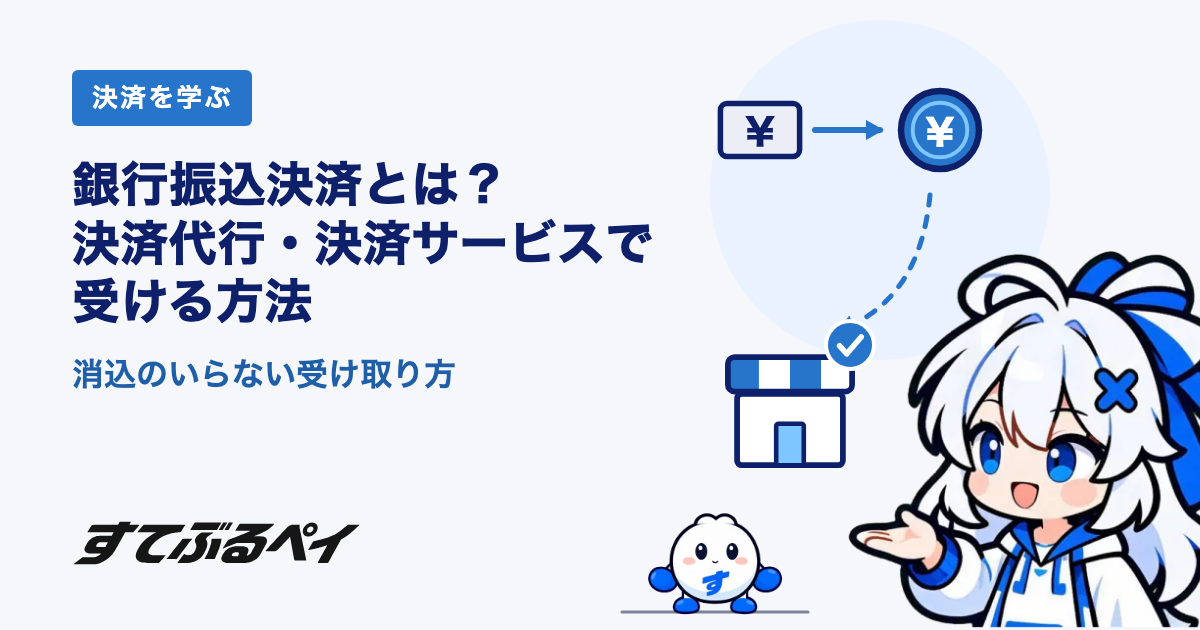
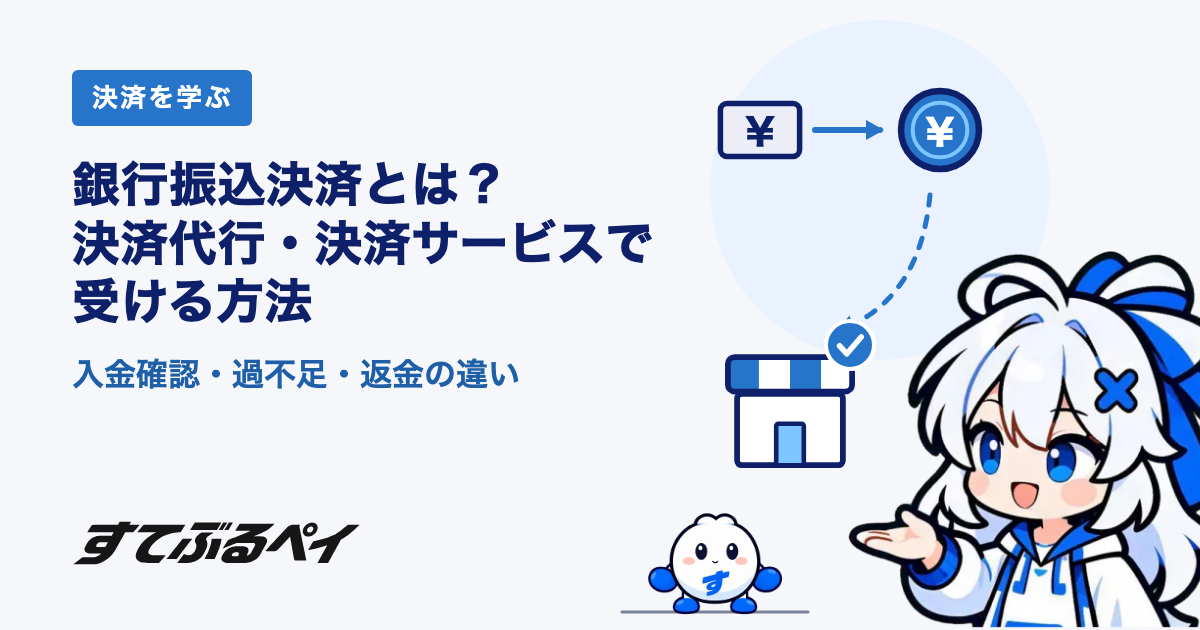
fix(learn): Codex の指摘を出典で確かめて直す（銀行振込決済の題から限定なしの「消込のいらない」を外す、BASE の返金手数料・UnivaPay の期限・Stripe の充て方・過不足の対策の出典の範囲）
- 銀行振込決済とは：題・h1・OGP・一覧・llms.txt・サムネイルから「消込のいらない受け取り方」を外す（サムネイルの副題は「入金確認・過不足・返金の違い」）
- BASE の返金手数料は、過入金・重複入金を BASE から返金する場合に限る（BASE ヘルプ）
- UnivaPay の失敗は「申込金額に達しないまま振込期限を過ぎた」とき（Pay-Doc）
- Stripe の日本円の充て方：請求書は支払期日の古い順、PaymentIntent は確定日時の古い順（日本語版ドキュメント）
- 自動化の記事の過不足の行：繰越待ち・前受・入金残は多すぎる入金の機能。振込手数料を引いた入金は手数料の誤差の設定で候補に出す（マネーフォワード）
- 振込人名で照合できない場合を限定する言い方に
- 比較表に残っていた作業メモの文を消す

Changed region(s): [[0.0617, 0.573, 0.4317, 0.6333]]

diff --git a/learn/bank-transfer-payments/index.html b/learn/bank-transfer-payments/index.html
@@ -6,7 +6,7 @@
     <meta name="robots" content="index,follow,max-image-preview:large" />
     <meta name="google-analytics-id" content="G-QEPQ7VY0Z2" />
     <link rel="icon" href="/favicon.ico?v=1" sizes="any" />
-    <title>銀行振込決済とは？決済代行・決済サービスで受ける方法と、消込のいらない受け取り方 | すてぶるペイ</title>
+    <title>銀行振込決済とは？決済代行・決済サービスで受ける方法 | すてぶるペイ</title>
     <meta
       name="description"
       content="銀行振込決済とは、購入者が銀行振込で代金を払う決済方法です。ネットショップが自分の口座で受ける方法と、決済代行・決済サービスで受ける方法を、入金確認・過不足・返金で比べ、入金明細と注文を突き合わせる作業がなくなる条件を解説します。組み込み・記帳・返金の操作は残ります。"
@@ -14,7 +14,7 @@
     <meta property="og:type" content="article" />
     <meta property="og:locale" content="ja_JP" />
     <meta property="og:site_name" content="すてぶるペイ / STBLpay" />
-    <meta property="og:title" content="銀行振込決済とは？決済代行・決済サービスで受ける方法と、消込のいらない受け取り方" />
+    <meta property="og:title" content="銀行振込決済とは？決済代行・決済サービスで受ける方法" />
     <meta
       property="og:description"
       content="自分の口座・決済代行や決済サービスの銀行振込・ステーブルコイン決済を、入金確認・過不足・返金で比べ、入金明細と注文を突き合わせる作業がなくなる条件を解説します。組み込み・記帳・返金の操作は残ります。"
@@ -24,17 +24,17 @@
     <meta property="og:image:type" content="image/png" />
     <meta property="og:image:width" content="1200" />
     <meta property="og:image:height" content="630" />
-    <meta property="og:image:alt" content="決済を学ぶ：銀行振込決済とは？決済代行・決済サービスで受ける方法 消込のいらない受け取り方" />
+    <meta property="og:image:alt" content="決済を学ぶ：銀行振込決済とは？決済代行・決済サービスで受ける方法 入金確認・過不足・返金の違い" />
     <meta property="article:published_time" content="2026-11-10" />
     <meta property="article:modified_time" content="2026-11-11" />
     <meta name="twitter:card" content="summary_large_image" />
-    <meta name="twitter:title" content="銀行振込決済とは？決済代行・決済サービスで受ける方法と、消込のいらない受け取り方" />
+    <meta name="twitter:title" content="銀行振込決済とは？決済代行・決済サービスで受ける方法" />
     <meta
       name="twitter:description"
       content="自分の口座・決済代行や決済サービスの銀行振込・ステーブルコイン決済を、入金確認・過不足・返金で比べ、入金明細と注文を突き合わせる作業がなくなる条件を解説します。組み込み・記帳・返金の操作は残ります。"
     />
     <meta name="twitter:image" content="https://stbl-pay.com/assets/learn/bank-transfer-payments/og.png" />
-    <meta name="twitter:image:alt" content="決済を学ぶ：銀行振込決済とは？決済代行・決済サービスで受ける方法 消込のいらない受け取り方" />
+    <meta name="twitter:image:alt" content="決済を学ぶ：銀行振込決済とは？決済代行・決済サービスで受ける方法 入金確認・過不足・返金の違い" />
     <link rel="alternate" hreflang="ja" href="https://stbl-pay.com/learn/bank-transfer-payments/" />
     <link rel="alternate" hreflang="x-default" href="https://stbl-pay.com/learn/bank-transfer-payments/" />
     <link rel="canonical" href="https://stbl-pay.com/learn/bank-transfer-payments/" />
@@ -56,7 +56,7 @@
     {
       "@type": "Article",
       "@id": "https://stbl-pay.com/learn/bank-transfer-payments/#article",
-      "headline": "銀行振込決済とは？決済代行・決済サービスで受ける方法と、消込のいらない受け取り方",
+      "headline": "銀行振込決済とは？決済代行・決済サービスで受ける方法",
       "description": "銀行振込決済とは、購入者が銀行振込で代金を払う決済方法です。ネットショップが自分の口座で受ける方法と、決済代行・決済サービスで受ける方法を、入金確認・過不足・返金で比べ、入金明細と注文を突き合わせる作業がなくなる条件を解説します。組み込み・記帳・返金の操作は残ります。",
       "inLanguage": "ja",
       "datePublished": "2026-11-10",
@@ -152,7 +152,7 @@
           "name": "銀行振込の支払い期限を過ぎた注文は、どうなりますか？",
           "acceptedAnswer": {
             "@type": "Answer",
-            "text": "サービスによって違います。BASE では、注文日から 5 営業日以内に入金がないと、注文は自動でキャンセルになります。注文の 2 営業日後と 4 営業日後には、支払いの催促メールが購入者へ自動で送られます。UnivaPay では、振込期限を過ぎた申込は失敗になります。"
+            "text": "サービスによって違います。BASE では、注文日から 5 営業日以内に入金がないと、注文は自動でキャンセルになります。注文の 2 営業日後と 4 営業日後には、支払いの催促メールが購入者へ自動で送られます。UnivaPay では、申込金額に達しないまま振込期限を過ぎると、申込は失敗になります。"
           }
         },
         {
@@ -206,8 +206,8 @@
             </ol>
           </nav>
 
-          <h1>銀行振込決済とは？決済代行・決済サービスで受ける方法と、消込のいらない受け取り方</h1>
-          <img class="learn-hero" src="/assets/learn/bank-transfer-payments/thumb.webp" width="1200" height="630" alt="決済を学ぶ：銀行振込決済とは？決済代行・決済サービスで受ける方法 消込のいらない受け取り方。円のお札から青いコインへ、そしてお店へ矢印が続き、お店の上に完了の印があって、すてぶるちゃんが笑顔で手のひらを向け、すてぶるくんが見ている絵" fetchpriority="high" decoding="async" />
+          <h1>銀行振込決済とは？決済代行・決済サービスで受ける方法</h1>
+          <img class="learn-hero" src="/assets/learn/bank-transfer-payments/thumb.webp" width="1200" height="630" alt="決済を学ぶ：銀行振込決済とは？決済代行・決済サービスで受ける方法 入金確認・過不足・返金の違い。円のお札から青いコインへ、そしてお店へ矢印が続き、お店の上に完了の印があって、すてぶるちゃんが笑顔で手のひらを向け、すてぶるくんが見ている絵" fetchpriority="high" decoding="async" />
           <p class="learn-lead">銀行振込決済とは、ネットショップなどで、購入者が銀行振込で代金を払う決済方法です。お店の口座で直接受ける方法と、決済代行・決済サービスを通して受ける方法があります。決済代行や決済サービスには、振込先の口座（バーチャル口座）を注文や顧客ごとに分けて、入金確認を自動で行うものがあります。入金確認で手間になるのは、銀行の入金明細と注文を突き合わせる作業（入金消込）です。この突き合わせがなくなるのは、支払いが最初から注文に結びつく受け取り方です。日本円の銀行振込で用意したステーブルコインで、注文ごとに受け取る方法もその一つです（成立の知らせを注文に反映する組み込み・記帳・返金の操作は残ります）。</p>
           <div class="learn-summary" role="note" aria-labelledby="summary-title">
             <p class="learn-summary-title" id="summary-title">3 行でわかる</p>
@@ -276,8 +276,8 @@
                   <th scope="row">三井住友カード・UnivaPay の銀行振込</th>
                   <td data-label="振込先">三井住友カードの決済ステーションは、お客さまごと、または注文ごとに被振込専用口座を割り当てる<sup class="fn"><a href="#src-10">[10]</a></sup>。UnivaPay は、決済ごとに違う口座番号を発行する型と、同じ口座番号を繰り返し使う型がある<sup class="fn"><a href="#src-11">[11]</a></sup>。</td>
                   <td data-label="照合（消込）">三井住友カードは、入金の情報を専用の管理画面に反映し、一般の銀行振込と比べて入金消込などの事務処理を軽くできると説明している<sup class="fn"><a href="#src-10">[10]</a></sup>。UnivaPay は、決済ごとに口座番号が違う型では、入金管理が正確に行えると説明している<sup class="fn"><a href="#src-11">[11]</a></sup>。</td>
-                  <td data-label="名義・金額のずれ">UnivaPay は、申込金額より多い入金も成功として扱う。足りない入金は処理待ちのままで、振込期限までは同じ口座へ追加で振り込める<sup class="fn"><a href="#src-11">[11]</a></sup>。三井住友カードの過不足の扱いは、公式の案内で確かめる。</td>
-                  <td data-label="入金確認まで">三井住友カードは、9〜15 時の振込は振込後 1 時間前後、15 時以降の振込は翌営業日の 9 時にまとめて、入金の情報を管理画面に反映する<sup class="fn"><a href="#src-10">[10]</a></sup>。UnivaPay は、振込期限を過ぎた申込は失敗になる<sup class="fn"><a href="#src-11">[11]</a></sup>。</td>
+                  <td data-label="名義・金額のずれ">UnivaPay は、申込金額より多い入金も成功として扱う。足りない入金は処理待ちのままで、振込期限までは同じ口座へ追加で振り込める<sup class="fn"><a href="#src-11">[11]</a></sup>。</td>
+                  <td data-label="入金確認まで">三井住友カードは、9〜15 時の振込は振込後 1 時間前後、15 時以降の振込は翌営業日の 9 時にまとめて、入金の情報を管理画面に反映する<sup class="fn"><a href="#src-10">[10]</a></sup>。UnivaPay は、申込金額に達しないまま振込期限を過ぎると、申込は失敗になる<sup class="fn"><a href="#src-11">[11]</a></sup>。</td>
                   <td data-label="返金">UnivaPay は、銀行振込決済に返金機能がなく、超過分はお店が購入者に連絡して返金する<sup class="fn"><a href="#src-11">[11]</a></sup>。</td>
                   <td data-label="導入">決済代行会社や決済サービスと契約して使う。</td>
                 </tr>
@@ -317,9 +317,9 @@
             <p>バーチャル口座（仮想口座）は、代表口座に紐づけて、請求書ごとや取引先ごとに割り当てる、振込専用の口座番号です<sup class="fn"><a href="#src-12">[12]</a></sup>。決済代行や決済サービスには、振込先の口座を注文や顧客ごとに分けて、入金確認を自動で行うものがあります。BASE・Stripe・三井住友カード・UnivaPay の仕組みは、次のとおりです。</p>
             <ul>
               <li><strong>BASE。</strong>注文によって振込先の口座番号が違います。振込先の口座・入金額・振込人名義の前の 4〜5 桁の識別コードで、自動で入金確認をします<sup class="fn"><a href="#src-3">[3]</a></sup>。入金確認の目安は、銀行の営業時間内の支払いで 2 時間前後、それ以外は翌営業日の午前中です<sup class="fn"><a href="#src-4">[4]</a></sup>。</li>
-              <li><strong>Stripe。</strong>顧客ごとに仮想口座を作ります。ドキュメントの例では、振込先の口座名義は Stripe の収納代行の名義です<sup class="fn"><a href="#src-5">[5]</a></sup>。日本円は、仮想口座で顧客を特定したうえで、顧客の現金残高と金額が一致する 1〜5 件の請求書・PaymentIntent の組み合わせを探します。なければ、全額を充てられる請求書を確定日時の古い順に充て、残りを PaymentIntent の確認日時の古い順に充てます<sup class="fn"><a href="#src-6">[6]</a></sup>。</li>
+              <li><strong>Stripe。</strong>顧客ごとに仮想口座を作ります。ドキュメントの例では、振込先の口座名義は Stripe の収納代行の名義です<sup class="fn"><a href="#src-5">[5]</a></sup>。日本円は、仮想口座で顧客を特定したうえで、顧客の現金残高と金額が一致する 1〜5 件の請求書・PaymentIntent の組み合わせを探します。なければ、全額を充てられる請求書に支払期日の古い順に充て、残りを未完了の PaymentIntent に確定日時の古い順に充てます<sup class="fn"><a href="#src-6">[6]</a></sup>。</li>
               <li><strong>三井住友カードの「決済ステーション」。</strong>銀行振込決済では、お客さまごと、または注文ごとに被振込専用口座を割り当て、入金の情報を専用の管理画面に反映します。同社は、一般の銀行振込と比べて、入金消込などの事務処理を軽くできると説明しています<sup class="fn"><a href="#src-10">[10]</a></sup>。</li>
-              <li><strong>UnivaPay。</strong>決済ごとに違う口座番号を発行する型と、同じ口座番号を繰り返し使う型があります。振込期限を過ぎた申込は失敗になります。申込金額より多い入金も成功として扱われ、銀行振込決済には返金機能がないため、超過分はお店が購入者に連絡して返金します<sup class="fn"><a href="#src-11">[11]</a></sup>。</li>
+              <li><strong>UnivaPay。</strong>決済ごとに違う口座番号を発行する型と、同じ口座番号を繰り返し使う型があります。申込金額に達しないまま振込期限を過ぎると、申込は失敗になります。申込金額より多い入金も成功として扱われ、銀行振込決済には返金機能がないため、超過分はお店が購入者に連絡して返金します<sup class="fn"><a href="#src-11">[11]</a></sup>。</li>
             </ul>
             <p>例外の入金の扱いは、サービスごとに違います。BASE では、識別コードを入れ忘れると、手動の入金確認になり、時間がかかります<sup class="fn"><a href="#src-3">[3]</a></sup>。不足は購入者が BASE へ追加で振り込み、過入金は購入者への返金になります<sup class="fn"><a href="#src-8">[8]</a></sup>。Stripe では、過払いは顧客の残高に残ります<sup class="fn"><a href="#src-5">[5]</a></sup>。照合されない資金が 75 日を超えて残ると、顧客の銀行口座への返金が自動で試みられ、90 日を過ぎても残っていれば、お店の Stripe アカウントの残高に移ります。これは返金の再試行ではなく、顧客が返金を受け取れるよう、お店が顧客と直接調整します<sup class="fn"><a href="#src-6">[6]</a></sup>。消し込まれているかを確かめる責任は、お店にあると書かれています<sup class="fn"><a href="#src-6">[6]</a></sup>。</p>
             <p>銀行口座へ返金するには、購入者の口座の情報が要ります。Stripe では、振込のときに受け取った口座の情報を使い、無いときやあいまいなときは Stripe が購入者にメールで尋ねます<sup class="fn"><a href="#src-9">[9]</a></sup>。BASE は、入金後の注文はキャンセルできず、ショップから購入者へ返金するよう案内しています<sup class="fn"><a href="#src-7">[7]</a></sup>。銀行 API は明細を速く取る手段で、振込に載る手がかりは増やしません。例外はルールか購入者への連絡で扱います。バーチャル口座で減らせることと残ることは、<a href="/learn/reconciliation-automation/#virtual">バーチャル口座で減らせること・残ること</a>で、自動にできることと例外として残る作業は、<a href="/learn/reconciliation-automation/">入金消込は自動化できる？</a>で解説しています。決済代行の仕組みは、<a href="/learn/payment-gateway/">決済代行とは</a>にまとめています。</p>
@@ -333,7 +333,7 @@
               <li><strong>三井住友カードの「決済ステーション」。</strong>9〜15 時の振込は振込後 1 時間前後、15 時以降の振込は翌営業日の 9 時にまとめて、入金の情報が管理画面に反映されます<sup class="fn"><a href="#src-10">[10]</a></sup>。</li>
               <li><strong>注文ごとに成立する方法（すてぶるペイの形）。</strong>成立の知らせが、注文番号つきでお店のサーバーに届いた時点です。</li>
             </ul>
-            <p>支払いの期限と、入金がないときの扱いも、サービスによって違います。BASE では、注文日から 5 営業日以内に入金がないと、注文は自動でキャンセルになり、注文の 2 営業日後と 4 営業日後に、支払いの催促メールが購入者へ自動で送られます<sup class="fn"><a href="#src-7">[7]</a></sup>。UnivaPay では、振込期限を過ぎた申込は失敗になります<sup class="fn"><a href="#src-11">[11]</a></sup>。</p>
+            <p>支払いの期限と、入金がないときの扱いも、サービスによって違います。BASE では、注文日から 5 営業日以内に入金がないと、注文は自動でキャンセルになり、注文の 2 営業日後と 4 営業日後に、支払いの催促メールが購入者へ自動で送られます<sup class="fn"><a href="#src-7">[7]</a></sup>。UnivaPay では、申込金額に達しないまま振込期限を過ぎると、申込は失敗になります<sup class="fn"><a href="#src-11">[11]</a></sup>。</p>
 
             <h2 id="conditions">消込のいらない受け取り方の条件</h2>
             <div class="learn-talk" role="group" aria-label="すてぶるくんとすてぶるちゃんの会話">
@@ -371,7 +371,7 @@
             <p>注意点もあります。購入者は、JPYC EX のアカウント（個人は日本在住の方）が必要で、初回は JPYC EX での本人確認があります。お店が受け取るのは JPYC で、日本円にするには JPYC EX で償還（日本円に戻すこと）します。お店の側でも、成立の知らせを注文に反映する組み込み（知らせの署名の検証や、届かないときの状態照会）と、返金の操作は残ります。状態を照会しても結果が確定しない場合は、注文を保留して調査を依頼します（<a href="/docs/lifecycle/edge-cases/">異常系の扱い</a>）。売上と手数料の記帳は残るので、会計の扱いは税理士に確かめてください。利用には、利用規約への同意と、法令上の要件を満たすことが前提です。お金の流れの詳細は、加盟店向けドキュメントの<a href="/docs/getting-started/money-flow/">お金の流れ</a>と<a href="/docs/refunds/overview/">返金の提供範囲</a>にあります。ステーブルコイン決済の仕組みは<a href="/learn/stablecoin-payments/">ステーブルコイン決済とは</a>、JPYC での導入の流れは<a href="/learn/jpyc-payments/">JPYC 決済の導入方法</a>で解説しています。</p>
 
             <h2 id="fees">銀行振込決済の手数料：振込手数料と決済サービスの手数料</h2>
-            <p>銀行振込決済の費用は、購入者が銀行に払う振込手数料と、お店が決済代行や決済サービスに払う手数料に分かれます。お店の口座で直接受ける場合は、決済代行や決済サービスを使わないので、その手数料はかかりません。決済代行や決済サービスを通す場合は、料率のほかの費用がないかも含めて、提供元の公式の料金ページで確かめます。BASE では、返金のときに発生する手数料は購入者の負担です<sup class="fn"><a href="#src-8">[8]</a></sup>。費用の比べ方は、<a href="/learn/payment-fees/">決済手数料の比較と計算方法</a>で解説しています。</p>
+            <p>銀行振込決済の費用は、購入者が銀行に払う振込手数料と、お店が決済代行や決済サービスに払う手数料に分かれます。お店の口座で直接受ける場合は、決済代行や決済サービスを使わないので、その手数料はかかりません。決済代行や決済サービスを通す場合は、料率のほかの費用がないかも含めて、提供元の公式の料金ページで確かめます。BASE では、過入金や重複入金を BASE から返金するときの手数料は、購入者の負担です<sup class="fn"><a href="#src-8">[8]</a></sup>。費用の比べ方は、<a href="/learn/payment-fees/">決済手数料の比較と計算方法</a>で解説しています。</p>
 
             <h2 id="choose">銀行振込決済の選び方：件数と売るもので決める</h2>
             <p>どの方法が合うかは、件数と、売るものによって変わります。</p>
@@ -408,7 +408,7 @@
               </details>
               <details>
                 <summary>銀行振込の支払い期限を過ぎた注文は、どうなりますか？</summary>
-                <p>サービスによって違います。BASE では、注文日から 5 営業日以内に入金がないと、注文は自動でキャンセルになります。注文の 2 営業日後と 4 営業日後には、支払いの催促メールが購入者へ自動で送られます。UnivaPay では、振込期限を過ぎた申込は失敗になります。</p>
+                <p>サービスによって違います。BASE では、注文日から 5 営業日以内に入金がないと、注文は自動でキャンセルになります。注文の 2 営業日後と 4 営業日後には、支払いの催促メールが購入者へ自動で送られます。UnivaPay では、申込金額に達しないまま振込期限を過ぎると、申込は失敗になります。</p>
               </details>
               <details>
                 <summary>銀行振込で返金するときは、どうしますか？</summary>

diff --git a/learn/reconciliation-automation/index.html b/learn/reconciliation-automation/index.html
@@ -397,12 +397,12 @@
               <p class="learn-talk-line is-chan"><img src="/assets/char/talk/chan-troubled-1.webp" alt="" width="112" height="112" loading="lazy" decoding="async" /><span class="learn-talk-name">すてぶるちゃん</span><span class="sr-only">：</span><span class="learn-talk-text">どの注文かは分かりやすくなります。でも、額が足りない入金や多い入金は残ります。</span></p>
             </div>
             <p>バーチャル口座（仮想口座。銀行によって、振込入金専用口座、振込入金口座とも呼びます）は、1 つの代表口座の下に、注文や取引先ごとの専用の口座番号を作る仕組みです。どの口座番号に振り込まれたかで、注文ごとの口座なら注文が、取引先ごとの口座なら取引先が分かります。取引先ごとの口座では、どの請求の分かを別に照合します。名前の表記に頼らないぶん、名義の違いによる照合のずれは減らせます。</p>
-            <p>バーチャル口座を使わず、代表口座 1 つで振込を受けると、明細には振込人名が出るため、請求の情報と振込人名が違うと照合できません。たとえば、請求先の会社の代わりに社長の名義で、また本人の代わりに家族の名義で振り込まれる場合です<sup class="fn"><a href="#src-8">[8]</a></sup>。</p>
+            <p>バーチャル口座を使わず、代表口座 1 つで振込を受けると、明細には振込人名が出るため、振込人名で照合していると、請求の情報と振込人名が違う入金は照合できないことがあります。たとえば、請求先の会社の代わりに社長の名義で、また本人の代わりに家族の名義で振り込まれる場合です<sup class="fn"><a href="#src-8">[8]</a></sup>。</p>
             <p>以下は、2026年11月時点の各社の公開情報です。</p>
             <ul>
               <li><strong>ドコモSMTBネット銀行（旧・住信SBIネット銀行）の振込入金専用口座。</strong>法人口座を開いたあとに申し込む、法人向けの商品です。請求書ごと・取引先ごとに専用の口座番号を割り当てられます。手数料は無料と記載され、1 つの代表口座につき 1,000 口座まで作れます。入金は代表口座に振り替えられ、明細の内容欄に、専用口座の番号と振込人名の頭 5 文字が出ます。ただし、一部の振込はこの表示にならない場合があります<sup class="fn"><a href="#src-8">[8]</a></sup>。</li>
               <li><strong>GMO あおぞらネット銀行の振込入金口座（バーチャル口座）。</strong>法人・個人事業主のお客さま向けのサービスで、初期登録料と月額利用料は無料と記載されています。1 回の口座発行の申込は 1,000 口座まで、1 契約あたりの口座発行上限は 2,000 口座です。口座番号 7 桁の最後の 1 桁はチェックデジットで、振込元で口座番号を打ち間違えるとエラーになり、振込の手続きが完了しません<sup class="fn"><a href="#src-19">[19]</a></sup>。</li>
-              <li><strong>Stripe の日本の銀行振込</strong>（<a href="/learn/bank-transfer-payments/#service">決済サービスの銀行振込</a>の解説もあります）。顧客ごとに仮想口座が作られ<sup class="fn"><a href="#src-10">[10]</a></sup>、この口座番号が自動の消し込みに使われます<sup class="fn"><a href="#src-9">[9]</a></sup>。日本では、振込の参照番号は使われません<sup class="fn"><a href="#src-10">[10]</a></sup>。日本円の消し込みでは、仮想口座で顧客を特定したうえで、顧客の現金残高と金額が一致する 1〜5 件の請求書・PaymentIntent の組み合わせを探します。なければ、全額を充てられる請求書に確定日時の古い順に充て、残りを未完了の PaymentIntent に確定日時の古い順に充てます<sup class="fn"><a href="#src-11">[11]</a></sup>。</li>
+              <li><strong>Stripe の日本の銀行振込</strong>（<a href="/learn/bank-transfer-payments/#service">決済サービスの銀行振込</a>の解説もあります）。顧客ごとに仮想口座が作られ<sup class="fn"><a href="#src-10">[10]</a></sup>、この口座番号が自動の消し込みに使われます<sup class="fn"><a href="#src-9">[9]</a></sup>。日本では、振込の参照番号は使われません<sup class="fn"><a href="#src-10">[10]</a></sup>。日本円の消し込みでは、仮想口座で顧客を特定したうえで、顧客の現金残高と金額が一致する 1〜5 件の請求書・PaymentIntent の組み合わせを探します。なければ、全額を充てられる請求書に支払期日の古い順に充て、残りを未完了の PaymentIntent に確定日時の古い順に充てます<sup class="fn"><a href="#src-11">[11]</a></sup>。</li>
             </ul>
             <table class="learn-table">
               <caption>バーチャル口座の例の比較（2026年11月時点）</caption>
@@ -479,7 +479,7 @@
                 </tr>
                 <tr>
                   <th scope="row">過不足（振込手数料の差し引き、多すぎる入金）</th>
-                  <td data-label="対策の例">繰越待ちにして、次回の請求で差し引きます（請求管理ロボ）<sup class="fn"><a href="#src-15">[15]</a></sup>。前受か入金残として記録します（マネーフォワード クラウド債権管理）<sup class="fn"><a href="#src-13">[13]</a></sup>。</td>
+                  <td data-label="対策の例">多すぎる入金は、繰越待ちにして次回の請求で差し引く（請求管理ロボ）<sup class="fn"><a href="#src-15">[15]</a></sup>、前受か入金残として記録する（マネーフォワード クラウド債権管理）<sup class="fn"><a href="#src-13">[13]</a></sup>、という機能があります。振込手数料を引いた入金は、設定した手数料の誤差の範囲で消込の候補に出せます（マネーフォワード クラウド債権管理）<sup class="fn"><a href="#src-13">[13]</a></sup>。</td>
                 </tr>
                 <tr>
                   <th scope="row">注文番号や請求書番号が届かない</th>

diff --git a/learn/index.html b/learn/index.html
@@ -83,7 +83,7 @@
         { "@type": "ListItem", "position": 12, "name": "決済手数料の比較と計算方法：総コストの計算ツール付き", "url": "https://stbl-pay.com/learn/payment-fees/", "image": "https://stbl-pay.com/assets/learn/payment-fees/og.png" },
         { "@type": "ListItem", "position": 13, "name": "入金消込とは？やり方と、銀行振込で大変な理由・減らす方法", "url": "https://stbl-pay.com/learn/payment-reconciliation/", "image": "https://stbl-pay.com/assets/learn/payment-reconciliation/og.png" },
         { "@type": "ListItem", "position": 14, "name": "入金消込は自動化できる？銀行 API・バーチャル口座・AI 消込の範囲と例外", "url": "https://stbl-pay.com/learn/reconciliation-automation/", "image": "https://stbl-pay.com/assets/learn/reconciliation-automation/og.png" },
-        { "@type": "ListItem", "position": 15, "name": "銀行振込決済とは？決済代行・決済サービスで受ける方法と、消込のいらない受け取り方", "url": "https://stbl-pay.com/learn/bank-transfer-payments/", "image": "https://stbl-pay.com/assets/learn/bank-transfer-payments/og.png" }
+        { "@type": "ListItem", "position": 15, "name": "銀行振込決済とは？決済代行・決済サービスで受ける方法", "url": "https://stbl-pay.com/learn/bank-transfer-payments/", "image": "https://stbl-pay.com/assets/learn/bank-transfer-payments/og.png" }
       ]
     },
     {
@@ -251,7 +251,7 @@
 
           <section class="learn-group" aria-labelledby="group-d">
             <h2 id="group-d">銀行振込と入金消込</h2>
-            <p>入金消込の意味とやり方、自動化できる範囲、消込のいらない受け取り方の条件を、この順に解説します。</p>
+            <p>入金消込の意味とやり方、自動化できる範囲、入金明細との突き合わせがいらない受け取り方の条件を、この順に解説します。</p>
             <ul class="learn-cards">
               <li>
                 <a href="/learn/payment-reconciliation/">
@@ -270,7 +270,7 @@
               <li>
                 <a href="/learn/bank-transfer-payments/">
                   <img class="learn-card-thumb" src="/assets/learn/bank-transfer-payments/thumb.webp" width="1200" height="630" alt="" loading="lazy" decoding="async" />
-                  <h3>銀行振込決済とは？決済代行・決済サービスで受ける方法と、消込のいらない受け取り方</h3>
+                  <h3>銀行振込決済とは？決済代行・決済サービスで受ける方法</h3>
                   <p>銀行振込決済とは、ネットショップなどで、購入者が銀行振込で代金を払う決済方法です。お店の口座で受ける方法、決済代行・決済サービスを通す方法、注文ごとに支払いが届く方法を比べます。</p>
                 </a>
               </li>

diff --git a/marketing/research/reconciliation-bank-api.md b/marketing/research/reconciliation-bank-api.md
@@ -56,7 +56,7 @@
 - Stripe の過不足の扱い: 不足は「未払いの Payment Intent に部分的に資金を充当」するが「請求書に部分的に資金が充当されることはありません」（請求書は全額入るまで未払い）。過払いは「未払いの決済に対して入金された資金の照合を試行し、残りの超過額を顧客の残高に保持」。（検証：要注意 accept-a-payment の文言は 2026-11-10 確認。ただし reconciliation ページには「請求書の場合、部分支払いの自動消し込みが有効になっており、顧客が振込メモに請求書番号を含めている場合にのみ、入金された銀行振込が部分支払いとして充当されます」と、請求書の確定時に「設定された過少支払いのしきい値」を考慮する旨の記述もあり、「請求書には部分充当されない」は設定次第の例外がある。JPY の自動消込の手順には参照コード照合がないため、日本で請求書への部分充当が起きるかは未確認）
   出典: 同 accept-a-payment ページ「支払い不足と過払いを処理する」、https://docs.stripe.com/payments/customer-balance/reconciliation 「部分支払いと請求書の確定」
 - Stripe の JPY の自動消込の順序（日本円では参照番号ではなく、顧客の特定・金額・古さで当てる）:
-  【確認済み（delta-1）】顧客ごとの仮想口座で顧客を特定したうえで、顧客の現金残高と金額が一致する 1〜5 件の請求書・PaymentIntent の組み合わせを探す。無ければ、全額を充てられる請求書を確定日時の古い順に、残りを未完了の PaymentIntent に確定日時の古い順に充てる。表やまとめで「なければ古い順に充てる」だけに短縮しない（短縮するなら「決まった順序で充てる（詳しくは本文）」）。「請求書には一部だけ充てられることはない」は設定しだいの例外があるので書かない。（検証：2026-11-10 オーケストレーター確認）（検証：2026-11-10 確認。USD・EUR 等は先に参照コード／請求書番号で照合するが、JPY の手順には参照照合がない）
+  【確認済み（delta-1）】顧客ごとの仮想口座で顧客を特定したうえで、顧客の現金残高と金額が一致する 1〜5 件の請求書・PaymentIntent の組み合わせを探す。無ければ、全額を充てられる請求書を支払期日の古い順に（日本語版「支払期日が古いものから順に」、英語版 oldest due）、残りを未完了の PaymentIntent に確定日時の古い順に充てる（2026-11-11 に日本語版で再確認）。表やまとめで「なければ古い順に充てる」だけに短縮しない（短縮するなら「決まった順序で充てる（詳しくは本文）」）。「請求書には一部だけ充てられることはない」は設定しだいの例外があるので書かない。（検証：2026-11-10 オーケストレーター確認）（検証：2026-11-10 確認。USD・EUR 等は先に参照コード／請求書番号で照合するが、JPY の手順には参照照合がない）
   出典: https://docs.stripe.com/payments/customer-balance/reconciliation
 - Stripe の未消込資金: 「ご自身の責任で、顧客の現金残高が消し込まれていることをスピーディーかつ正確に確認する必要があります」。照合されない資金が 75 日を超えて残ると、顧客の銀行口座への返金を自動で試み（口座閉鎖などで失敗することがある）、90 日を過ぎても残っていれば Stripe の残高に移す（返金の再試行ではない）。Stripe が顧客の口座情報を持っていない場合、顧客に直接「連絡することがあります」。銀行振込による支払いは「USD および CAD での取引を除き、取り消すことはできません」（この「取り消せない」は、購入者の申し立てによる取り消し、カードのチャージバックにあたるものの話で、お店からの返金はできる。同ページは全額・部分返金を認める。返金ができないように読める書き方をしない）。（検証：2026-11-10 確認。「連絡する」を原文どおり「連絡することがある」に。取り消し不可の記述は reconciliation ページではなく bank-transfers ページ https://docs.stripe.com/payments/bank-transfers 。同ページの機能表は不審請求の申し立てを「USD 取引のみ」としており本文と食い違う）
   出典: 同 reconciliation ページ、bank-transfers ページ
